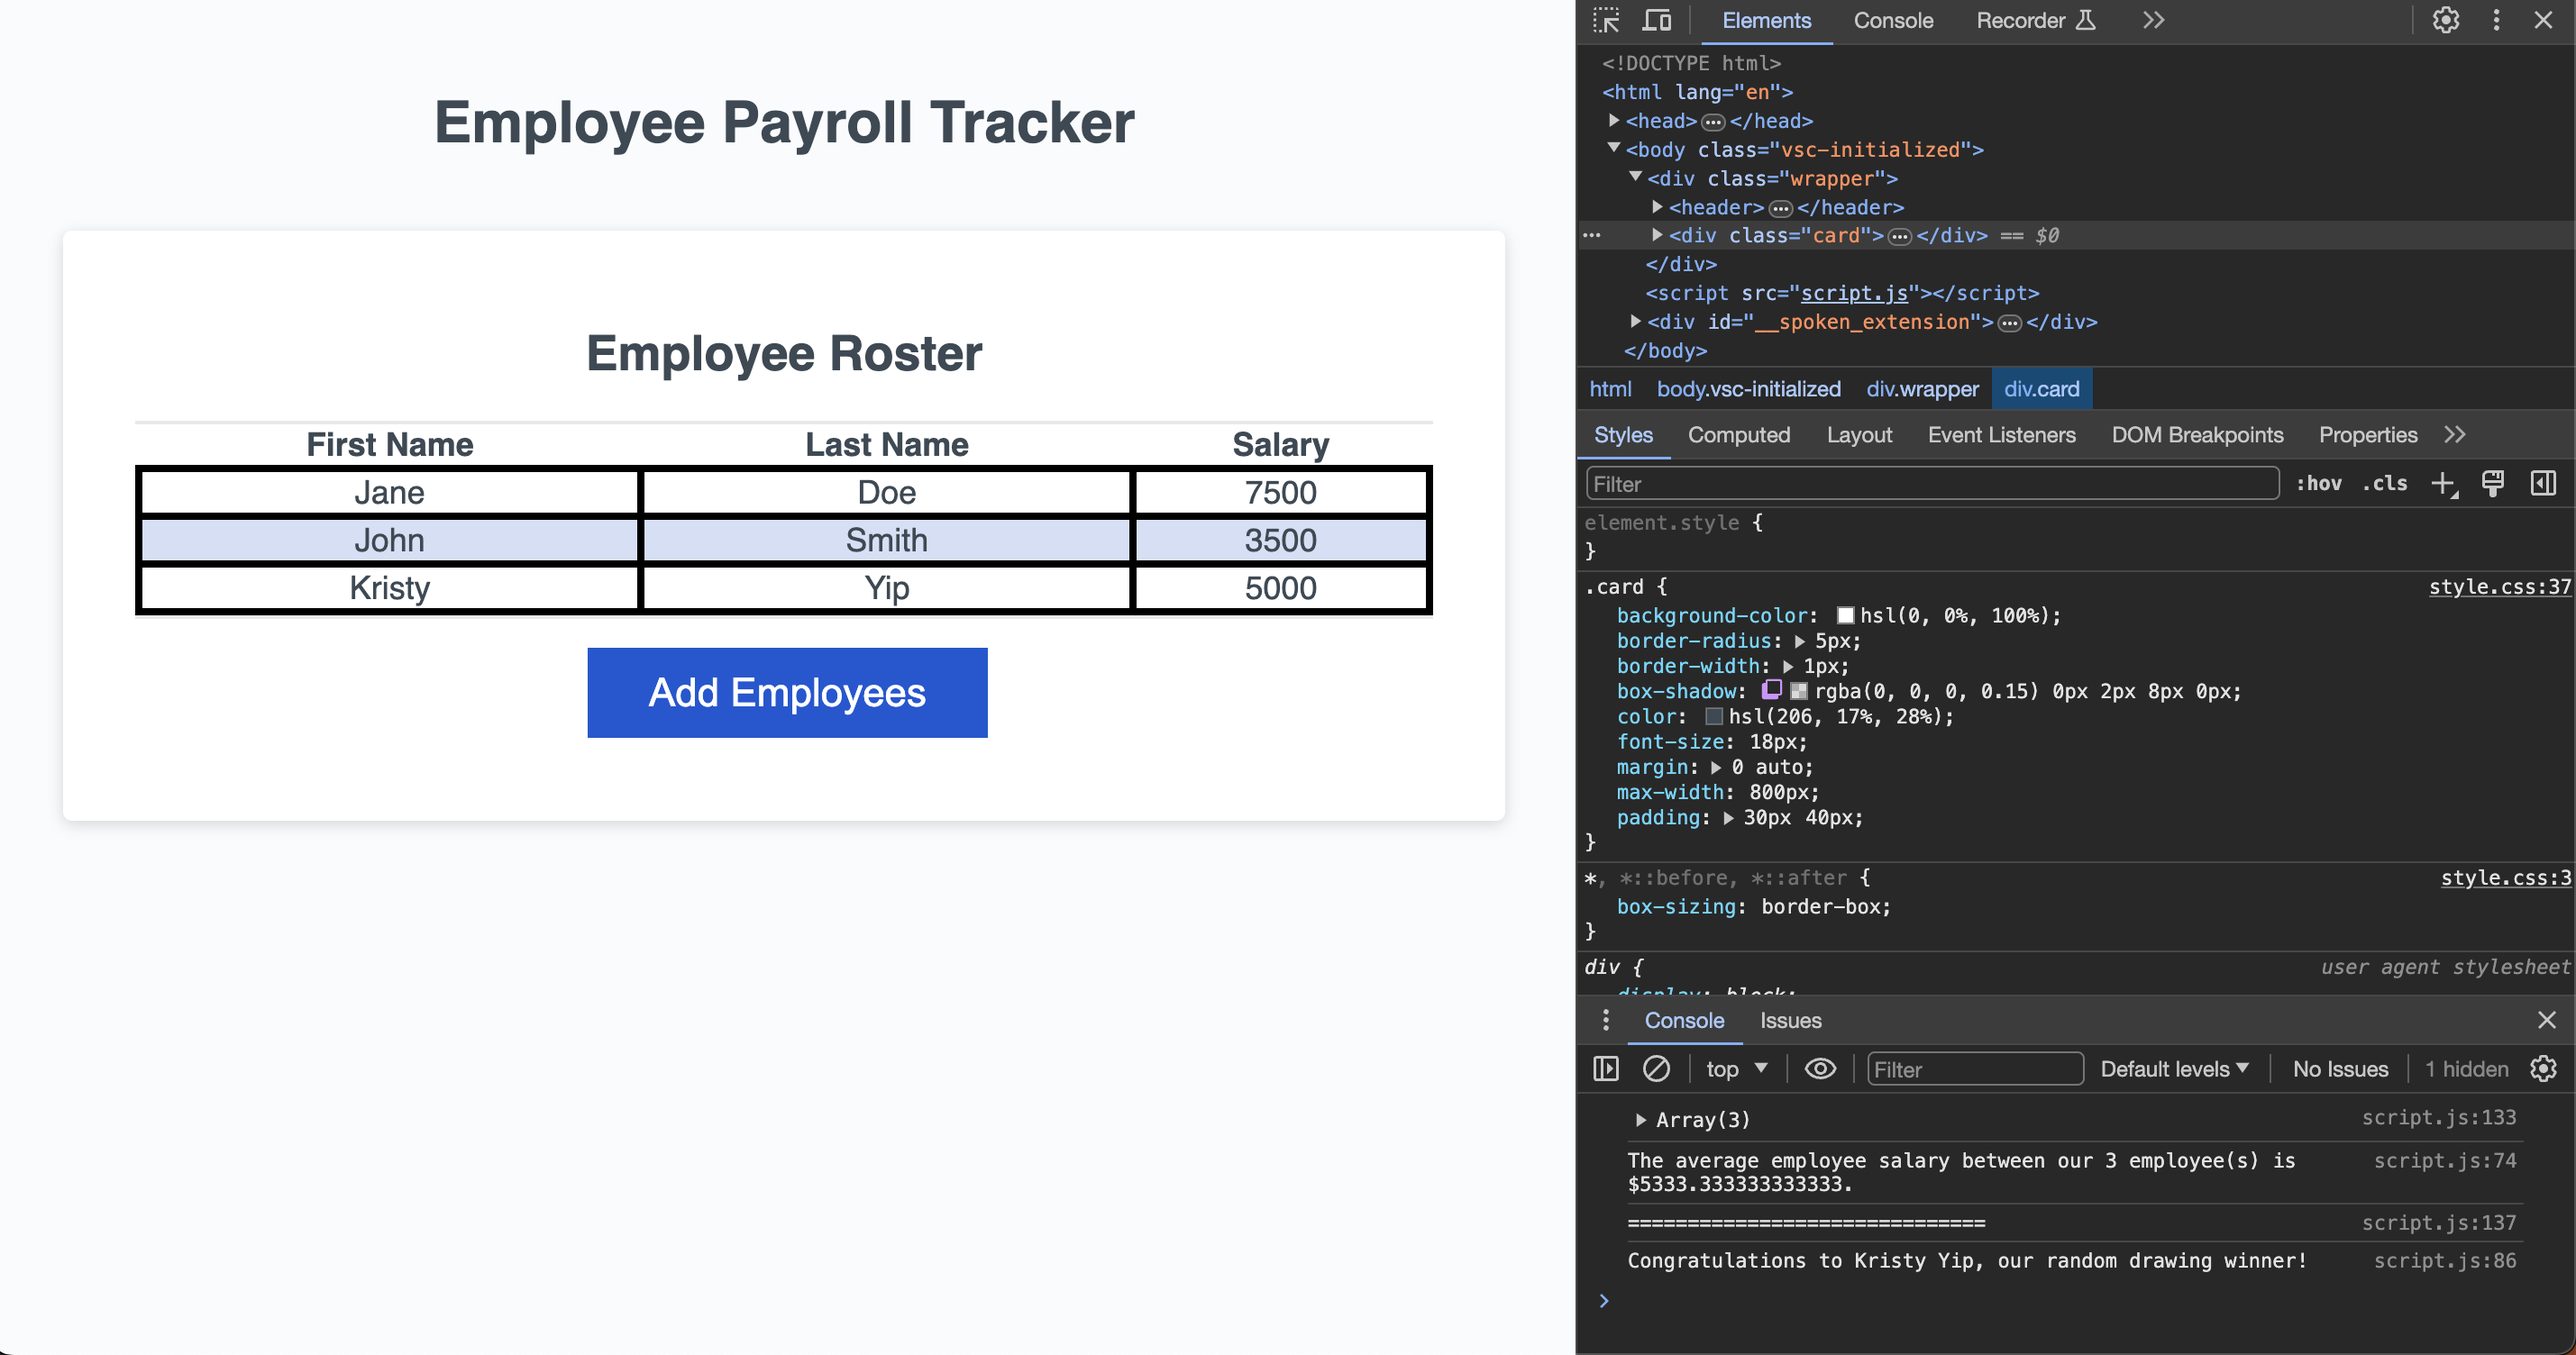
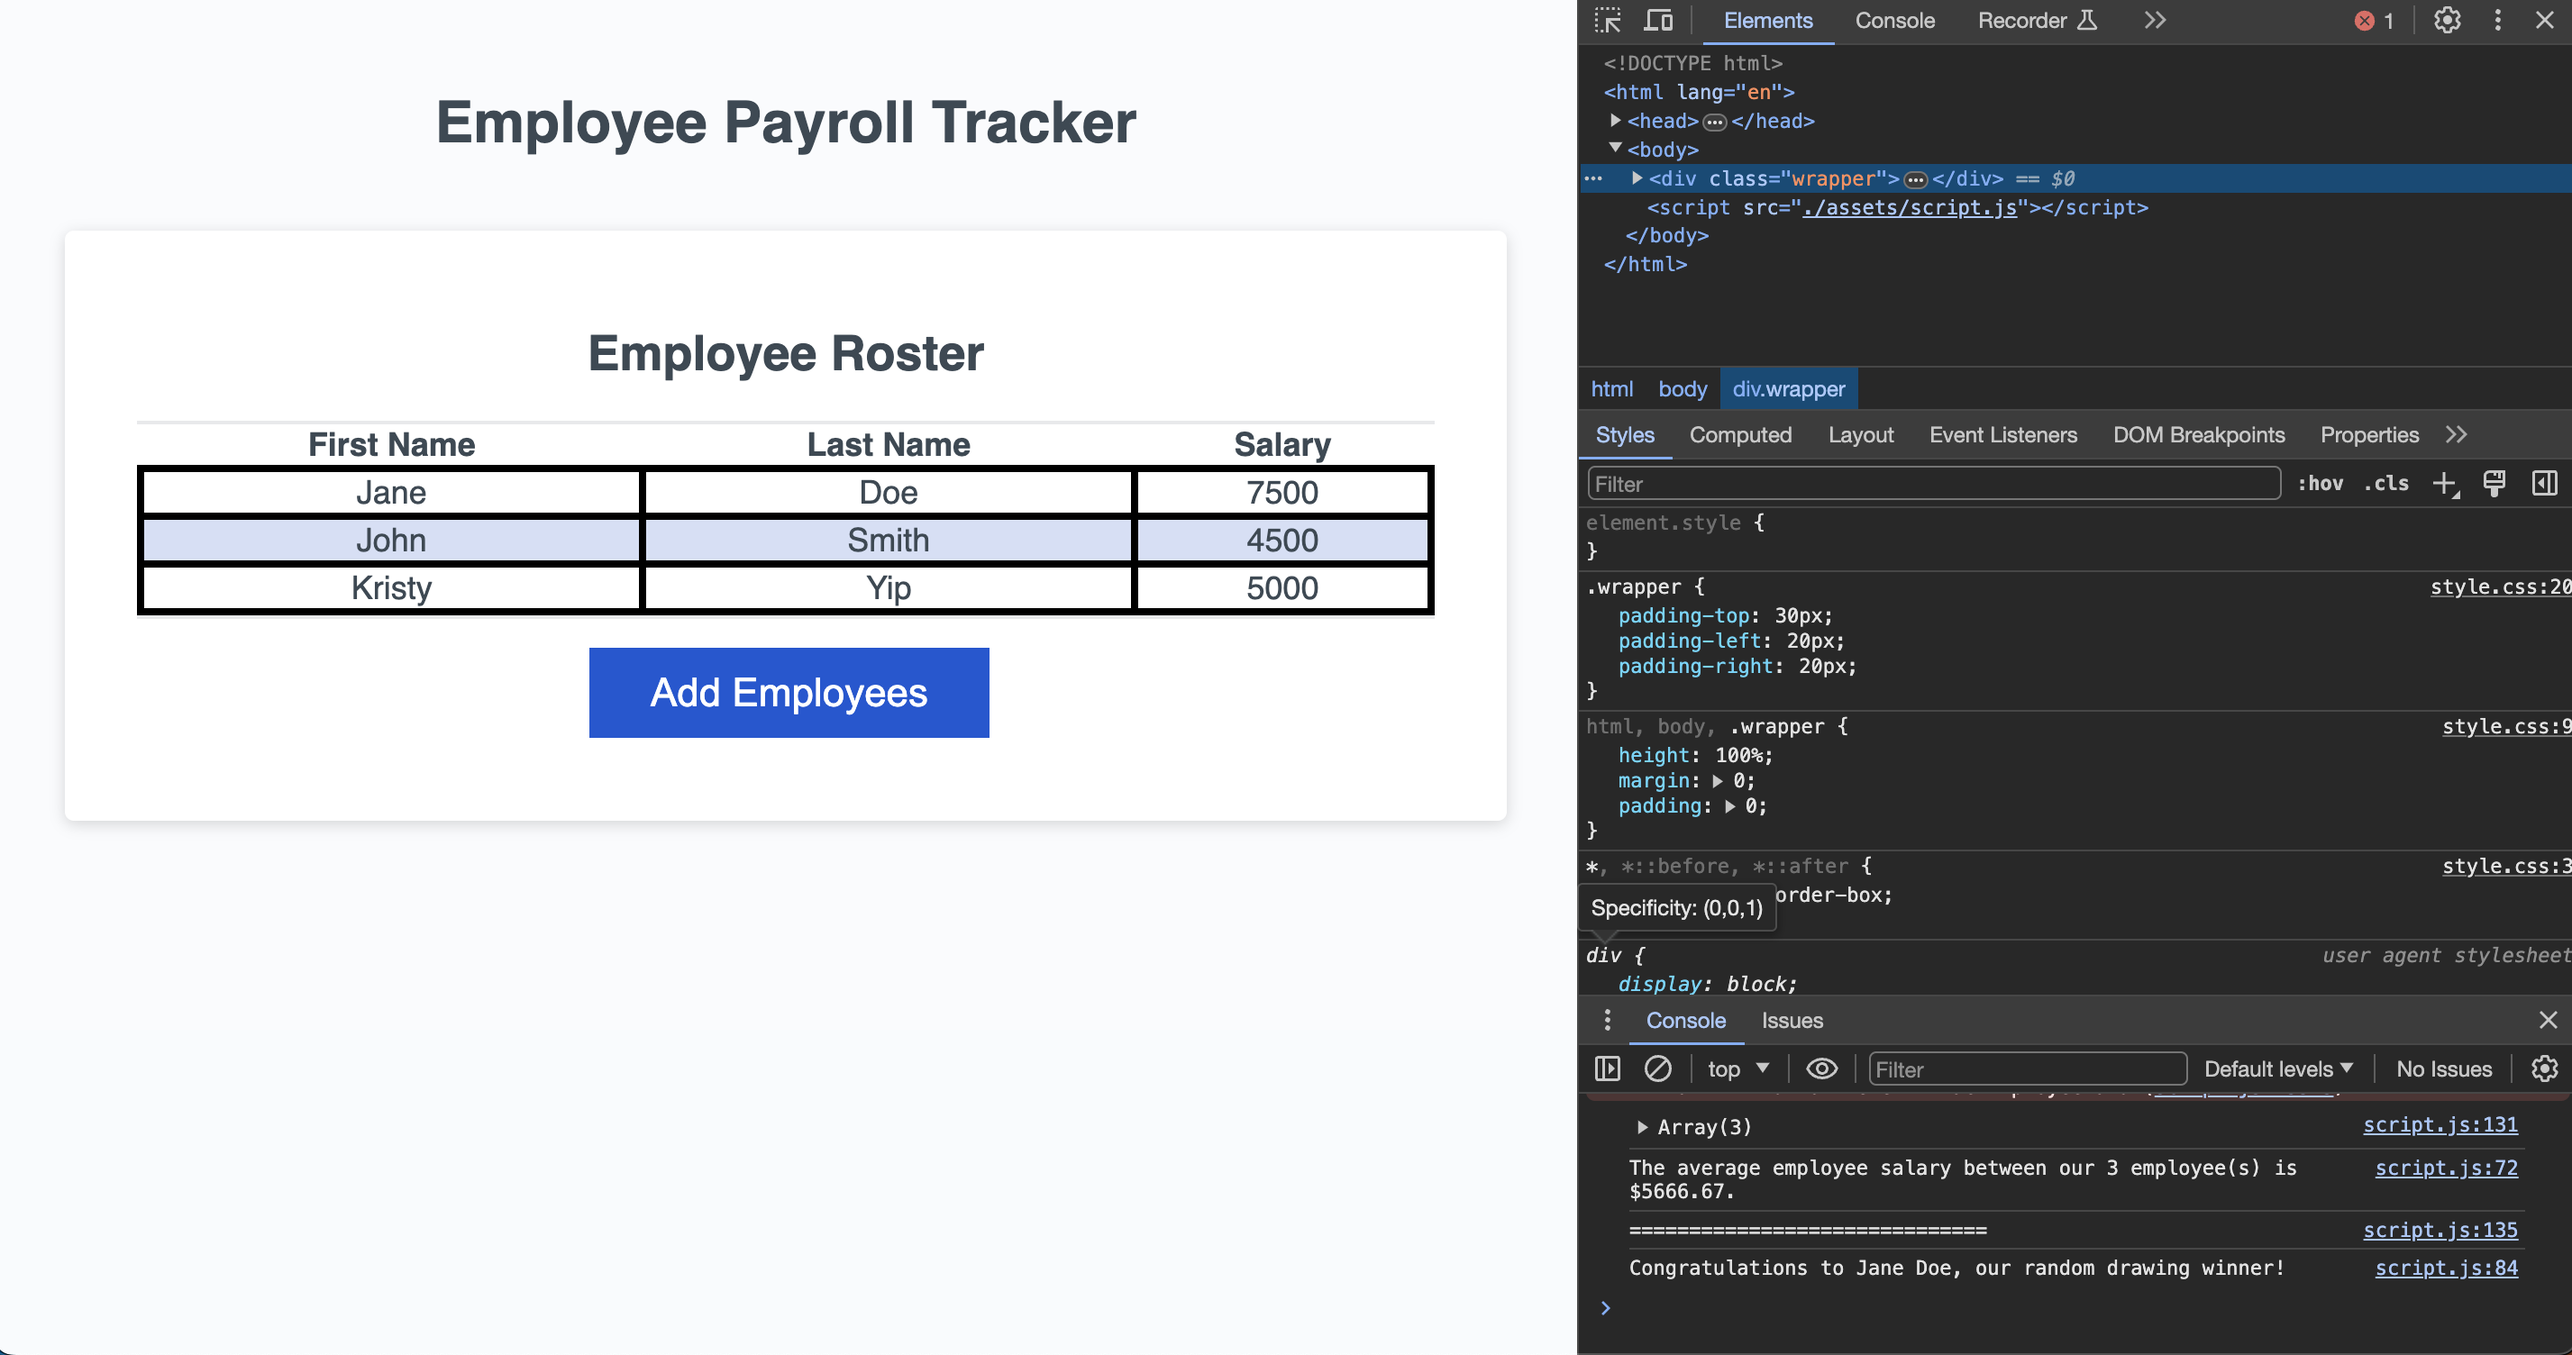
fixed functions in script.js and links in index.html

diff --git a/assets/script.js b/assets/script.js
@@ -28,29 +28,27 @@ const collectEmployees = function() {
         // ask user for employee's salary
         let salary = prompt("Enter salary:");
 
-        // check that the user entered a valid input (number)
+        // check that the user entered a valid input (number); if not, salary defaults to $0
         if (isNaN(salary)) {
-          alert("That is not a number. Please try again.");
-          salary = prompt("Enter salary:");
+          salary = 0;
         }
-        else {
-          // store user inputs into an array
-          employeeObject = {
-            firstName: firstName,
-            lastName: lastName,
-            salary: salary
-          };
 
-          // add employeeObject into employeesArray
-          employeesArray.push(employeeObject);
+        // store user inputs into an array
+        employeeObject = {
+          firstName: firstName,
+          lastName: lastName,
+          salary: salary
+        }
 
-          // ask user if they want to add more
-          keepCollecting = confirm("Do you want to add another employee?");
+        // add employeeObject into employeesArray
+        employeesArray.push(employeeObject);
 
-          // if user successfully enters all inputs and decides to stop entering more employees, return employeesArray
-          if (!keepCollecting) {
-            return employeesArray;
-          }
+        // ask user if they want to add more
+        keepCollecting = confirm("Do you want to add another employee?");
+
+        // if user successfully enters all inputs and decides to stop entering more employees, return employeesArray
+        if (!keepCollecting) {
+          return employeesArray;
         }
       }
     }
@@ -71,7 +69,7 @@ const displayAverageSalary = function(employeesArray) {
   averageSalary = salarySum / employeesArray.length;
 
   // display average salary
-  console.log(`The average employee salary between our ${employeesArray.length} employee(s) is  $${averageSalary}.`);
+  console.log(`The average employee salary between our ${employeesArray.length} employee(s) is  $${averageSalary.toFixed(2)}.`);
 }
 
 // Select a random employee

diff --git a/index.html b/index.html
@@ -6,7 +6,7 @@
   <meta name="viewport" content="width=device-width, initial-scale=1.0" />
   <meta http-equiv="X-UA-Compatible" content="ie=edge" />
   <title>Employee Payroll Tracker</title>
-  <link rel="stylesheet" href="style.css" />
+  <link rel="stylesheet" href="./assets/style.css" />
 </head>
 
 <body>
@@ -36,7 +36,7 @@
       </div>
     </div>
   </div>
-  <script src="script.js"></script>
+  <script src="./assets/script.js"></script>
 </body>
 
 </html>
